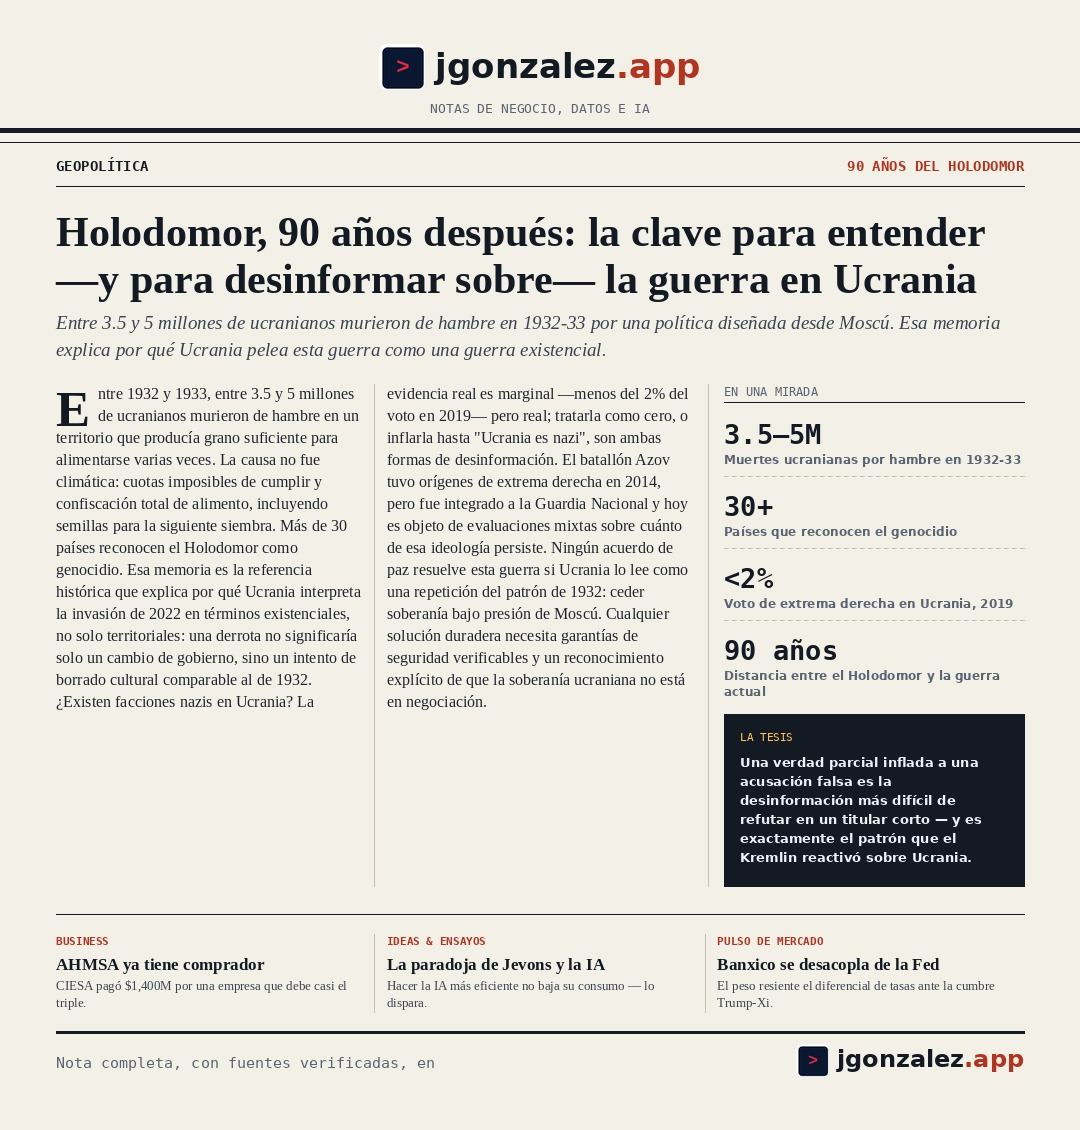
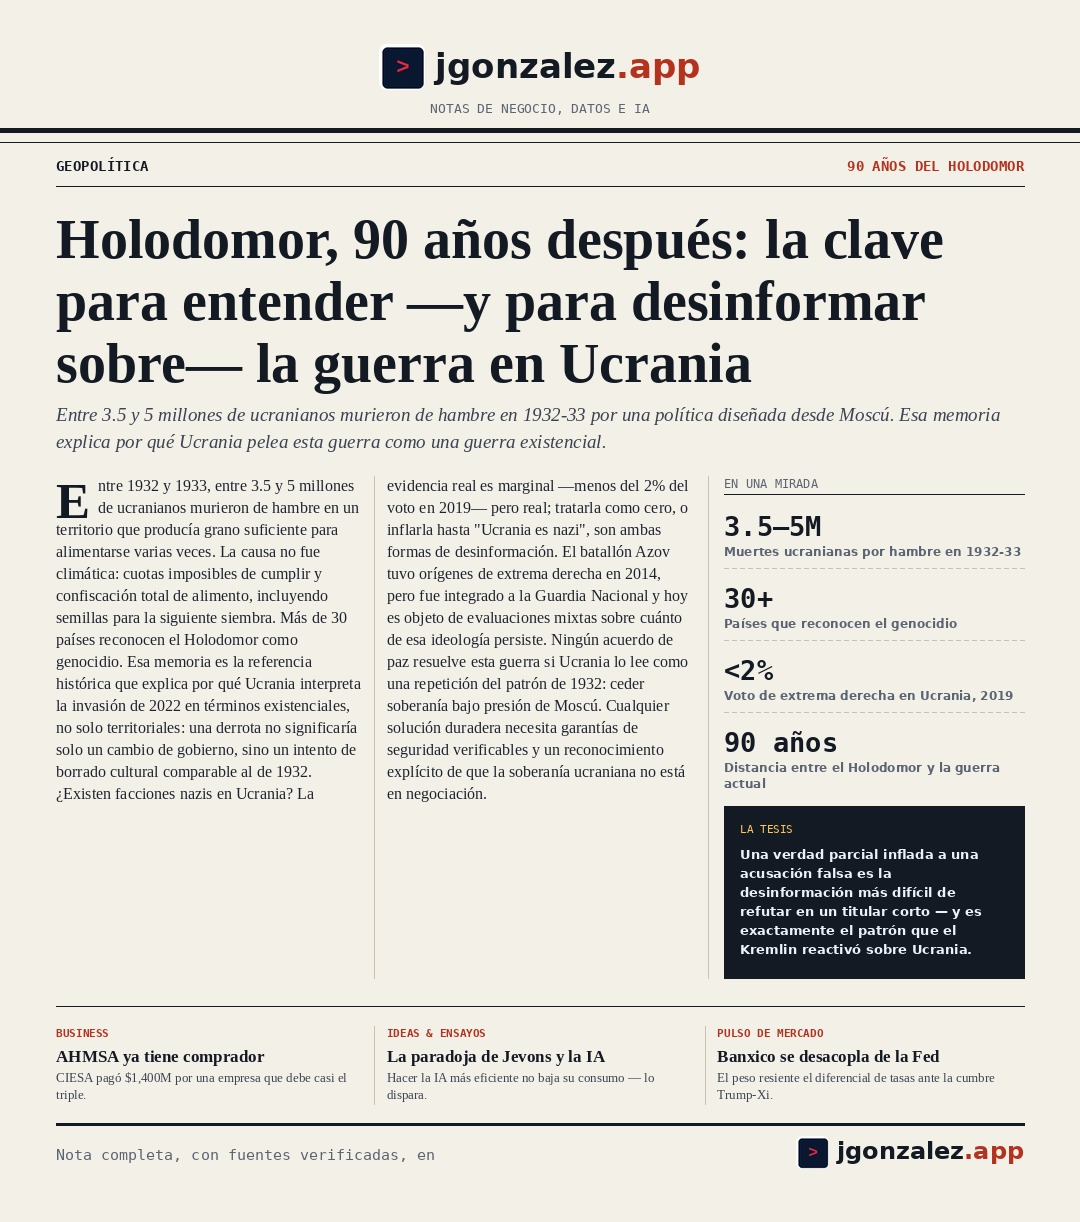
Agranda el titular de la tarjeta social para que venda más
Claude-Session: https://claude.ai/code/session_01Hy1irsgxb8SxM6AaqhiYV5

Changed region(s): [[0.0, 0.031, 1.0, 0.9602], [0.7944, 0.3407, 0.825, 0.3717]]

diff --git a/scripts/social_card.py b/scripts/social_card.py
@@ -125,10 +125,10 @@ def generar(datos_nota, salida):
 
     # ---- headline ----
     ancho_texto = ANCHO - margen * 2
-    tam = 42
+    tam = 56
     f_h1 = ImageFont.truetype(F_SERIF_BLACK, tam)
     lineas_h1 = envolver(draw, titulo, f_h1, ancho_texto)
-    while len(lineas_h1) > 4 and tam > 30:
+    while len(lineas_h1) > 4 and tam > 38:
         tam -= 2
         f_h1 = ImageFont.truetype(F_SERIF_BLACK, tam)
         lineas_h1 = envolver(draw, titulo, f_h1, ancho_texto)
